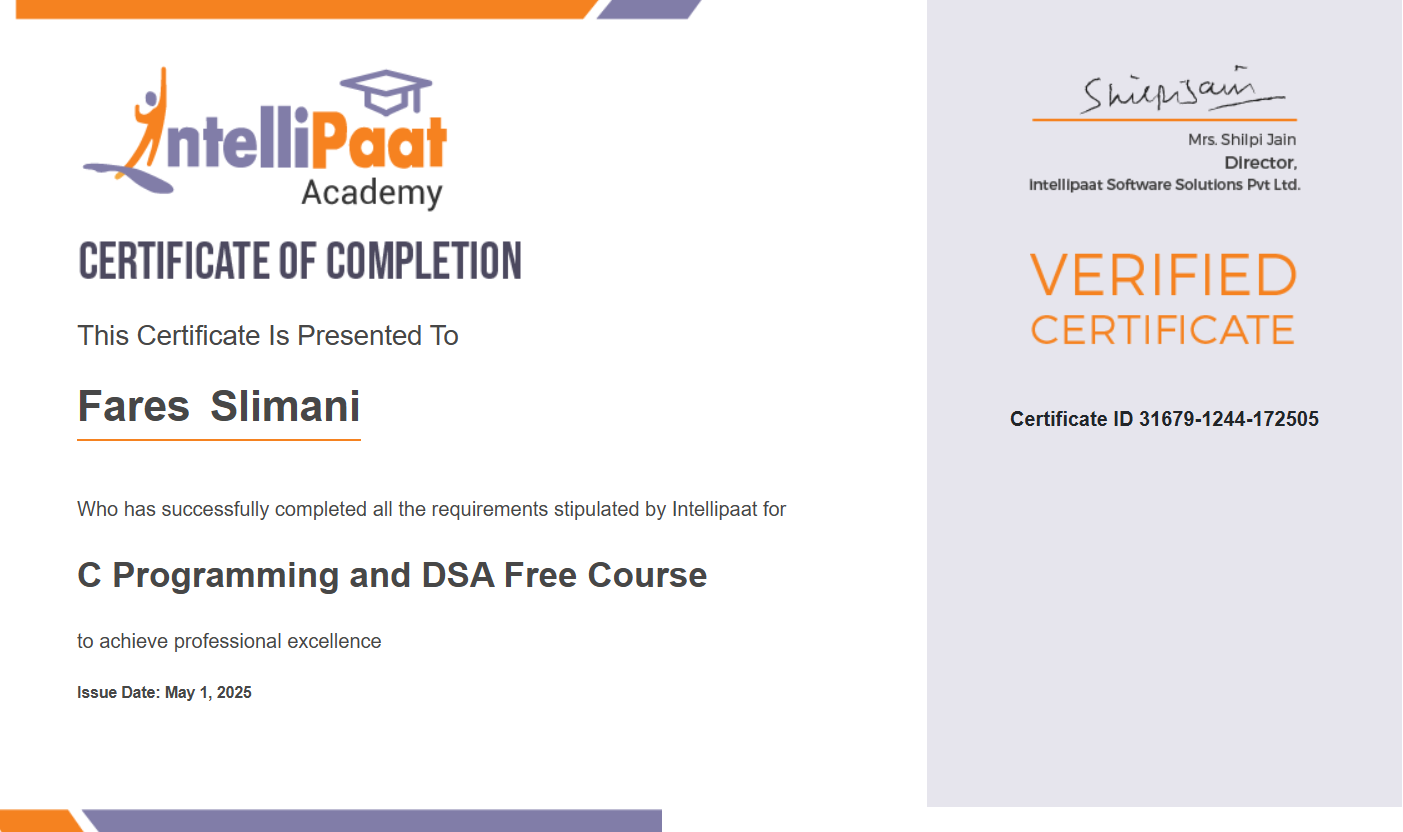
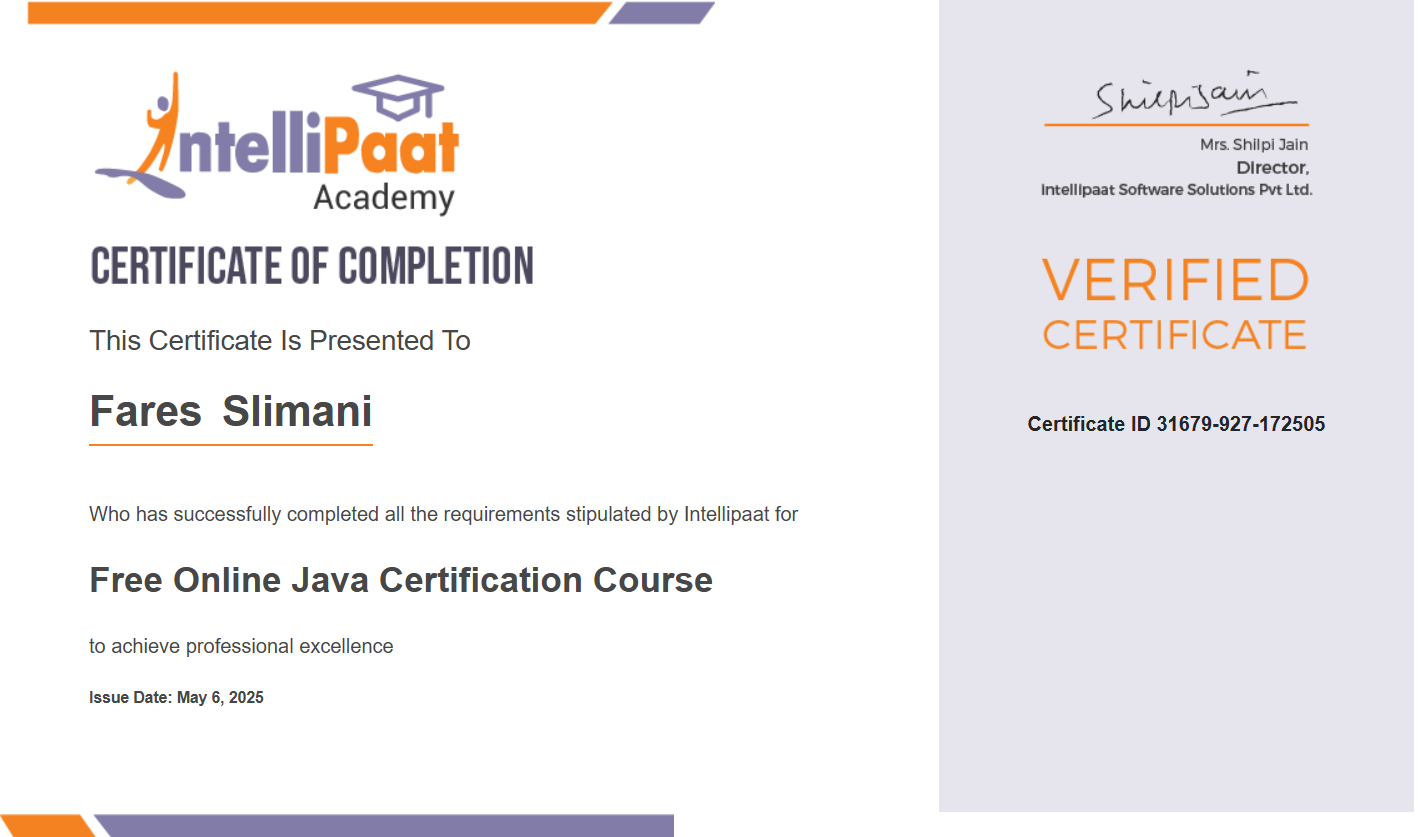
fresh

diff --git a/src/constants/index.js b/src/constants/index.js
@@ -1,5 +1,6 @@
 import {
   certifcss,
+  certifC,
   certifgoogle,
   certifhtml,
   certifjava,
@@ -479,6 +480,13 @@ const certificates = [
     image: certifjava,
     issuer: "Intellipaat",
     date: "2023",
+    link: "https://intellipaat.com/academy/certificate-link/?Yz05MjcmdT0xNzI1MDUmZXh0PTE=",
+  },
+  {
+    title: "C Certification",
+    image: certifC,
+    issuer: "Intellipaat",
+    date: "2025",
     link: "https://intellipaat.com/academy/certificate-link/?Yz0xMjQ0JnU9MTcyNTA1JmV4dD0x",
   },
   {

diff --git a/src/assets/index.js b/src/assets/index.js
@@ -44,11 +44,15 @@ import certifcss from "../assets/certif/certifcss.png";
 import certifjava from "../assets/certif/certifjava.png";
 import certifsql from "../assets/certif/certifsql.png";
 import certifgoogle from "../assets/certif/certifgoogle.png";
+import certifC from "../assets/certif/certifc.png";
+
+
 
 export {
 
   logo,
   certifhtml,
+  certifC,
   certifcss,
   certifjava,
   certifsql,
